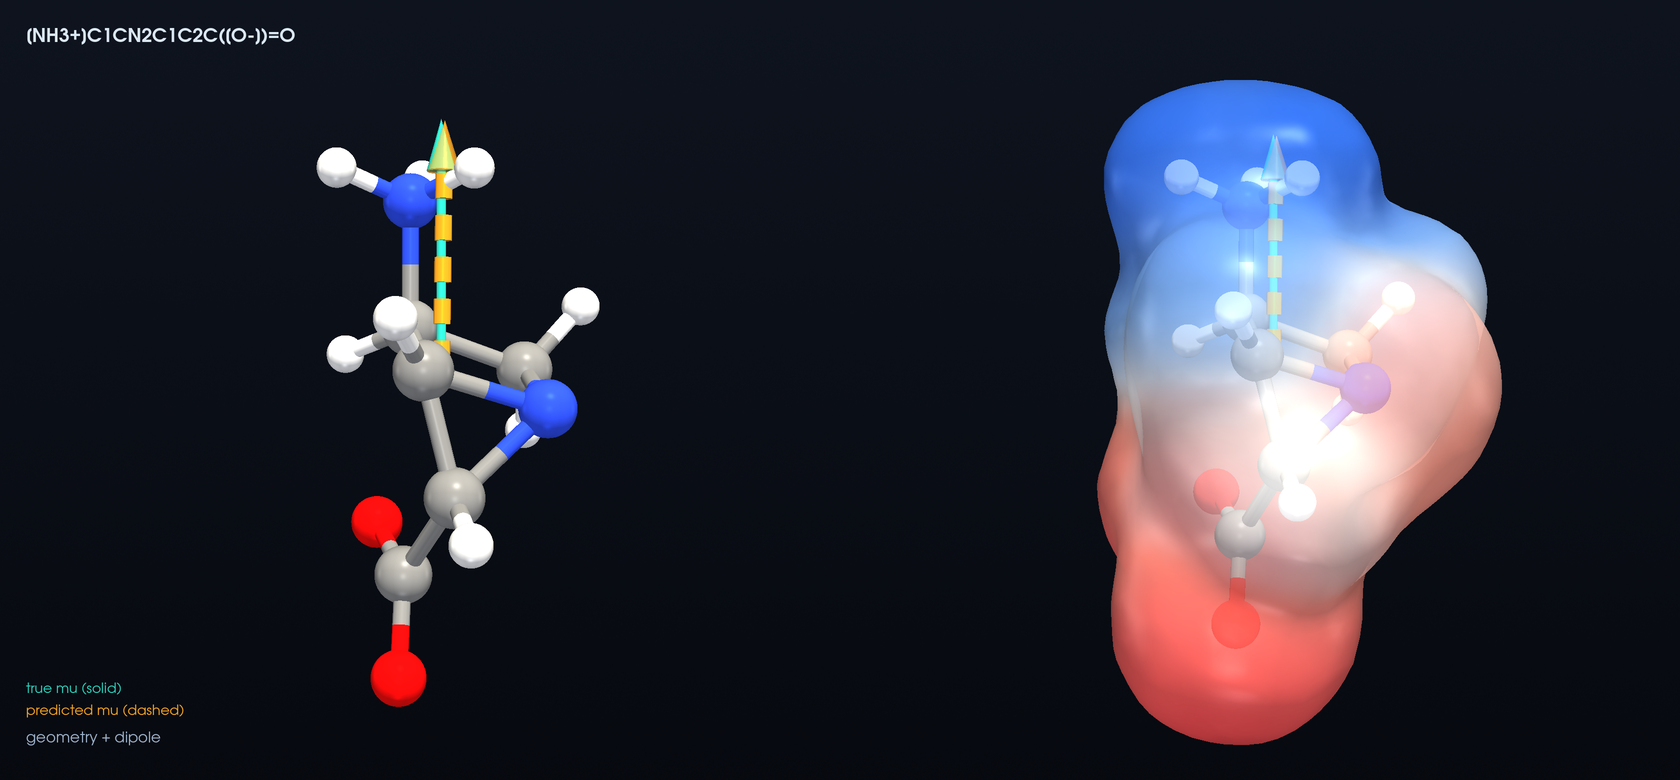
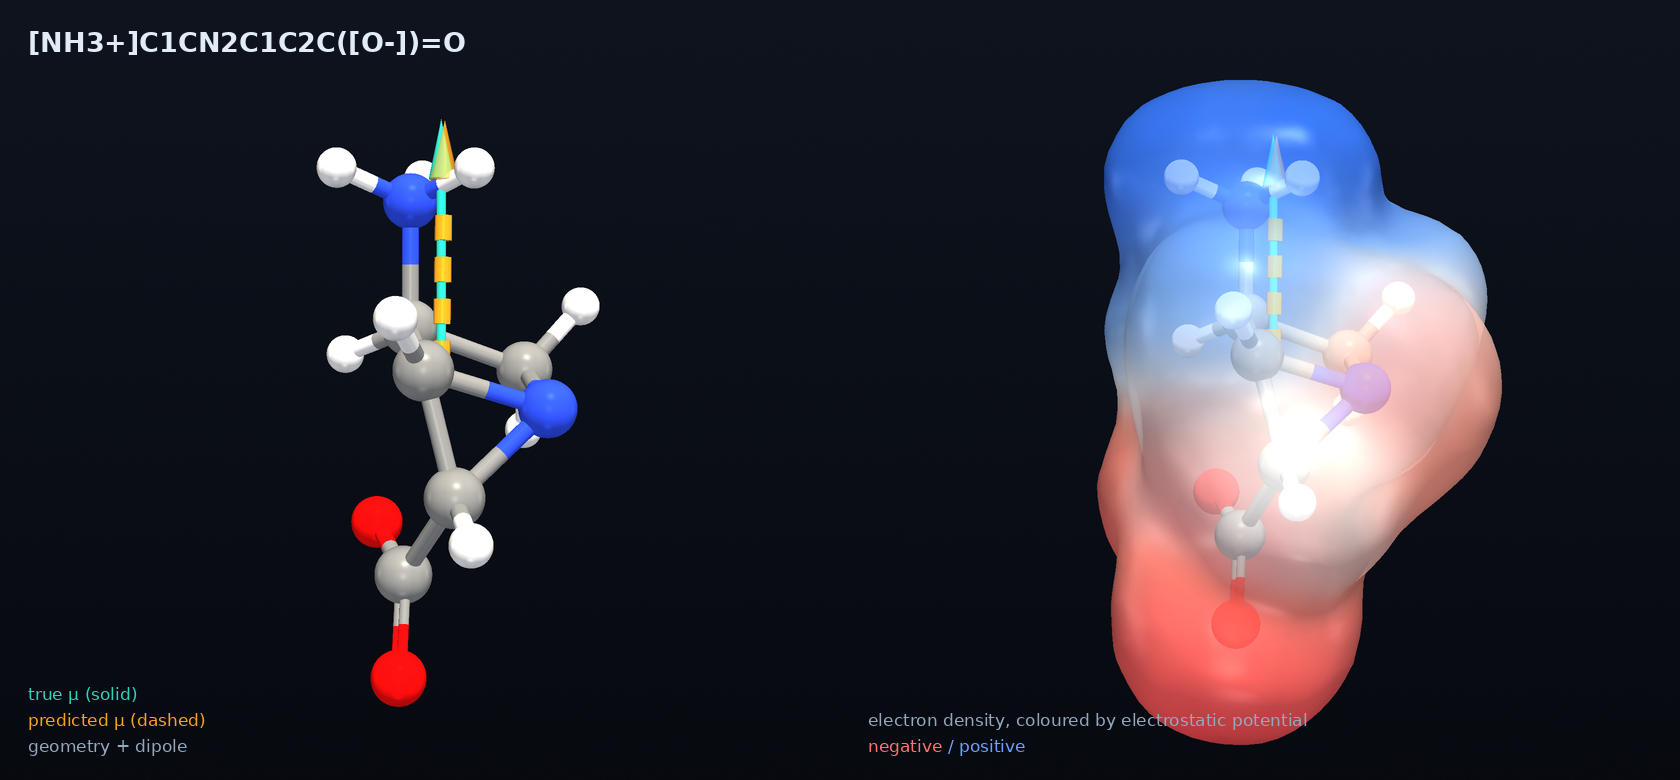
Draw bond orders in the cover render and set its captions in a real typeface; scale viewer arrows so small dipoles stay visible and keep every arrowhead sharp

diff --git a/index.html b/index.html
@@ -126,6 +126,7 @@
     <div class="row"><div class="k"><span class="swatch" style="background:var(--faint)"></span>magnitude error</div>
       <div class="val" id="vmagerr">—<small>D</small></div></div>
   </div>
+  <div class="densnote" id="vecnote">arrow length scaled for visibility · magnitudes above are exact</div>
   <div class="err">
     <svg class="gauge" viewBox="0 0 64 64" id="gauge"></svg>
     <div>
@@ -165,7 +166,13 @@ function formulaText(atoms){const c={};atoms.forEach(a=>c[a[0]]=(c[a[0]]||0)+1);
 function centroid(atoms){let s=[0,0,0];atoms.forEach(a=>{s[0]+=a[1];s[1]+=a[2];s[2]+=a[3];});return V.scal(s,1/atoms.length);}
 const viewer=$3Dmol.createViewer(document.getElementById('viewer'),{backgroundColor:'#080b11',antialias:true});
 const DVEC_SCALE_BASE=0.46; let vecScale=1.0, spinning=true, cur=0, repMode=0; const SCALES=[1.0,1.6,0.6]; const AU2D=2.541746;
-function drawArrow(from,to,color,radius){viewer.addArrow({start:{x:from[0],y:from[1],z:from[2]},end:{x:to[0],y:to[1],z:to[2]},radius:radius,color:color,radiusRatio:2.6,mid:0.86});}
+function drawArrow(from,to,color,radius){
+  var L=Math.hypot(to[0]-from[0],to[1]-from[1],to[2]-from[2]);
+  var head=Math.min(0.62,L*0.42);
+  viewer.addArrow({start:{x:from[0],y:from[1],z:from[2]},end:{x:to[0],y:to[1],z:to[2]},radius:radius,color:color,radiusRatio:2.1,mid:Math.max(0.5,1-head/L)});
+}
+var MUMAX=Math.max.apply(null,MOLS.map(function(m){return m.mag;}));
+function arrowLen(mag){return (0.95+3.15*(mag/MUMAX))*vecScale;}
 const COVR={H:0.31,C:0.76,N:0.71,O:0.66,F:0.57,S:1.05,Cl:1.02};
 const MAXV={H:1,C:4,N:4,O:2,F:1,S:6,Cl:1};
 function wantOrder(e1,e2,d){var p=[e1,e2].sort().join('');
@@ -266,10 +273,11 @@ function render(i, keepView){
   viewer.addModel(toSDF(m.atoms),'sdf');
   if(repMode===0){viewer.setStyle({},{stick:{radius:0.12,colorscheme:'Jmol'},sphere:{scale:0.25,colorscheme:'Jmol'}});}
   else{viewer.setStyle({},{stick:{radius:0.075,colorscheme:'Jmol'},sphere:{scale:0.11,colorscheme:'Jmol'}});}
-  const c=centroid(m.atoms); const pred=predictedDipole(m); const k=DVEC_SCALE_BASE*vecScale;
+  const c=centroid(m.atoms); const pred=predictedDipole(m);
   if(m.mag>1e-3){
-    const tEnd=V.add(c,V.scal(m.dip,k)); const pEnd=V.add(c,V.scal(pred,k));
-    drawArrow(c,pEnd,'#f5a524',0.075); drawArrow(c,tEnd,'#2dd4bf',0.095);
+    const tEnd=V.add(c,V.scal(unit(m.dip),arrowLen(V.norm(m.dip))));
+    const pEnd=V.add(c,V.scal(unit(pred),arrowLen(V.norm(pred))));
+    drawArrow(c,pEnd,'#f5a524',0.062); drawArrow(c,tEnd,'#2dd4bf',0.082);
     viewer.addSphere({center:{x:c[0],y:c[1],z:c[2]},radius:0.11,color:'#e8eef6',opacity:0.9});
   }
   if(view) viewer.setView(view); else {viewer.zoomTo(); viewer.zoom(m.mag>1e-3?0.85:1.15);}

diff --git a/render_hero.py b/render_hero.py
@@ -72,27 +72,98 @@ def cone(tip_at, direction, length, radius, rgb):
     return a
 
 
-def label(text, x, y, size, rgb, bold=False):
-    t = vtk.vtkTextActor(); t.SetInput(text)
-    pr = t.GetTextProperty()
-    pr.SetFontFamilyToArial(); pr.SetFontSize(size); pr.SetColor(*rgb)
-    pr.SetBold(bold); pr.SetJustificationToLeft()
-    t.SetDisplayPosition(x, y)
-    return t
+def draw_labels(im, W, H, smiles):
+    """Captions are drawn with PIL rather than vtkTextActor: at this size VTK's
+    built-in font renders the serifs of a square bracket so faintly that a SMILES
+    like [NH3+] reads as (NH3+)."""
+    from PIL import ImageDraw, ImageFont
+    from matplotlib import font_manager as fm
+    reg = fm.findfont(fm.FontProperties(family='DejaVu Sans'))
+    bold = fm.findfont(fm.FontProperties(family='DejaVu Sans', weight='bold'))
+    d = ImageDraw.Draw(im)
+    f_title = ImageFont.truetype(bold, 27)
+    f_small = ImageFont.truetype(reg, 17)
+    grey = (150, 168, 190)
+    rgb255 = lambda c: tuple(int(round(255 * x)) for x in c)
+    d.text((28, 26), smiles, font=f_title, fill=(226, 236, 246))
+    d.text((28, H - 96), 'true \u03bc (solid)', font=f_small, fill=rgb255(TRUE_RGB))
+    d.text((28, H - 70), 'predicted \u03bc (dashed)', font=f_small, fill=rgb255(PRED_RGB))
+    d.text((28, H - 44), 'geometry + dipole', font=f_small, fill=grey)
+    x2 = W // 2 + 28
+    d.text((x2, H - 70), 'electron density, coloured by electrostatic potential', font=f_small, fill=grey)
+    d.text((x2, H - 44), 'negative', font=f_small, fill=(255, 115, 115))
+    d.text((x2 + d.textlength('negative ', font=f_small), H - 44), '/ positive', font=f_small, fill=(107, 163, 255))
+
+
+MAXV = {1: 1, 6: 4, 7: 4, 8: 2, 9: 1, 16: 6}
+
+
+def want_order(z1, z2, d):
+    p = tuple(sorted((z1, z2)))
+    if p == (6, 6): return 3 if d < 1.25 else (2 if d < 1.42 else 1)
+    if p == (6, 7): return 3 if d < 1.21 else (2 if d < 1.35 else 1)
+    if p == (6, 8): return 2 if d < 1.30 else 1
+    if p == (7, 7): return 3 if d < 1.20 else (2 if d < 1.32 else 1)
+    if p == (7, 8): return 2 if d < 1.30 else 1
+    return 1
+
+
+def perceive_bonds(Z, pos):
+    """Covalent-radius bonding with valence-capped bond orders, matching the viewer.
+    Capping matters: a naive distance rule makes the short single bond between two
+    triple bonds look double and leaves carbon five-valent."""
+    n = len(Z)
+    B, val = [], [0] * n
+    for i in range(n):
+        for j in range(i + 1, n):
+            d = float(np.linalg.norm(pos[i] - pos[j]))
+            if d < (RCOV.get(Z[i], 0.75) + RCOV.get(Z[j], 0.75)) * 1.3:
+                B.append([i, j, 1, d, want_order(Z[i], Z[j], d)])
+                val[i] += 1; val[j] += 1
+    for e in sorted(B, key=lambda e: e[3]):
+        if e[4] <= 1:
+            continue
+        i, j = e[0], e[1]
+        add = min(e[4] - 1, MAXV.get(Z[i], 4) - val[i], MAXV.get(Z[j], 4) - val[j])
+        if add > 0:
+            e[2] = 1 + add; val[i] += add; val[j] += add
+    return B
+
+
+def bond_offset_dir(i, j, pos, B):
+    """In-plane perpendicular, so a double bond is drawn in the plane of its group."""
+    b = pos[j] - pos[i]; b = b / np.linalg.norm(b)
+    for e in B:
+        for a, c in ((e[0], e[1]), (e[1], e[0])):
+            if a in (i, j) and c not in (i, j):
+                nrm = np.cross(b, pos[c] - pos[a])
+                if np.linalg.norm(nrm) > 1e-3:
+                    v = np.cross(nrm, b)
+                    return v / np.linalg.norm(v)
+    t = np.array([0.0, 0.0, 1.0]) if abs(b[2]) < 0.9 else np.array([1.0, 0.0, 0.0])
+    v = np.cross(np.cross(b, t), b)
+    return v / np.linalg.norm(v)
 
 
 def ball_stick(Z, pos):
-    """Half-coloured bonds plus atom spheres, positions in Angstrom."""
-    acts, n = [], len(Z)
-    for i in range(n):
-        acts.append(sphere(pos[i], RBALL.get(Z[i], 0.33), JMOL.get(Z[i], (0.8, 0.8, 0.8))))
-    for i in range(n):
-        for j in range(i + 1, n):
-            d = np.linalg.norm(pos[i] - pos[j])
-            if d < (RCOV.get(Z[i], 0.75) + RCOV.get(Z[j], 0.75)) * 1.3:
-                mid = (pos[i] + pos[j]) / 2.0
-                acts.append(cylinder(pos[i], mid, 0.105, JMOL.get(Z[i], (0.8, 0.8, 0.8))))
-                acts.append(cylinder(mid, pos[j], 0.105, JMOL.get(Z[j], (0.8, 0.8, 0.8))))
+    """Atom spheres plus half-coloured bonds, drawn with their bond order."""
+    acts = [sphere(pos[i], RBALL.get(Z[i], 0.33), JMOL.get(Z[i], (0.8, 0.8, 0.8)))
+            for i in range(len(Z))]
+    B = perceive_bonds(Z, pos)
+    for i, j, order, d, w in B:
+        ci = JMOL.get(Z[i], (0.8, 0.8, 0.8)); cj = JMOL.get(Z[j], (0.8, 0.8, 0.8))
+        if order == 1:
+            offsets, r = [0.0], 0.105
+        elif order == 2:
+            offsets, r = [-0.085, 0.085], 0.062
+        else:
+            offsets, r = [-0.115, 0.0, 0.115], 0.05
+        p = bond_offset_dir(i, j, pos, B) if order > 1 else np.zeros(3)
+        for o in offsets:
+            a, b = pos[i] + p * o, pos[j] + p * o
+            m = (a + b) / 2.0
+            acts.append(cylinder(a, m, r, ci))
+            acts.append(cylinder(m, b, r, cj))
     return acts
 
 
@@ -101,14 +172,14 @@ def dipole_actors(center, dtrue, dpred):
     acts = []
     Lt = np.linalg.norm(dtrue) * ARROW_SCALE; ut = np.asarray(dtrue) / np.linalg.norm(dtrue)
     Lp = np.linalg.norm(dpred) * ARROW_SCALE; up = np.asarray(dpred) / np.linalg.norm(dpred)
-    head = 0.62
+    head = 0.72
     acts.append(cylinder(center, center + ut * (Lt - head * 0.55), 0.058, TRUE_RGB))
-    acts.append(cone(center + ut * Lt, ut, head, 0.175, TRUE_RGB))
+    acts.append(cone(center + ut * Lt, ut, head, 0.150, TRUE_RGB))
     dash, gap, s = 0.30, 0.20, 0.12
     while s + dash < Lp - head:
         acts.append(cylinder(center + up * s, center + up * (s + dash), 0.104, PRED_RGB))
         s += dash + gap
-    tip = cone(center + up * Lp, up, head, 0.205, PRED_RGB)
+    tip = cone(center + up * Lp, up, head, 0.175, PRED_RGB)
     tip.GetProperty().SetOpacity(0.55)
     acts.append(tip)
     acts.append(sphere(center, 0.105, (0.91, 0.93, 0.96)))
@@ -200,15 +271,6 @@ def main():
     aim_camera(renL, center, dtrue, 0.96)
     aim_camera(renR, center, dtrue, 1.20)
 
-    f = SS
-    renL.AddActor2D(label('geometry + dipole', 26 * f, 34 * f, 15 * f, (0.62, 0.70, 0.80)))
-    renR.AddActor2D(label('electron density, coloured by electrostatic potential', 26 * f, 34 * f, 15 * f, (0.62, 0.70, 0.80)))
-    renR.AddActor2D(label('negative', 26 * f, 62 * f, 14 * f, (1.0, 0.45, 0.45)))
-    renR.AddActor2D(label('/ positive', 92 * f, 62 * f, 14 * f, (0.42, 0.64, 1.0)))
-    renL.AddActor2D(label('true mu (solid)', 26 * f, 84 * f, 14 * f, TRUE_RGB))
-    renL.AddActor2D(label('predicted mu (dashed)', 26 * f, 62 * f, 14 * f, PRED_RGB))
-    renL.AddActor2D(label(mol['smiles'], 26 * f, H * f - 46 * f, 19 * f, (0.86, 0.91, 0.96), True))
-
     rw = vtk.vtkRenderWindow(); rw.AddRenderer(renL); rw.AddRenderer(renR)
     rw.SetSize(W * SS, H * SS); rw.SetMultiSamples(0)
     rw.Render()
@@ -218,6 +280,7 @@ def main():
 
     from PIL import Image
     im = Image.open('/tmp/hero_big.png').convert('RGB').resize((W, H), Image.LANCZOS)
+    draw_labels(im, W, H, mol['smiles'])
     import os
     os.makedirs('assets', exist_ok=True)
     out = 'assets/hero_%s.png' % mid